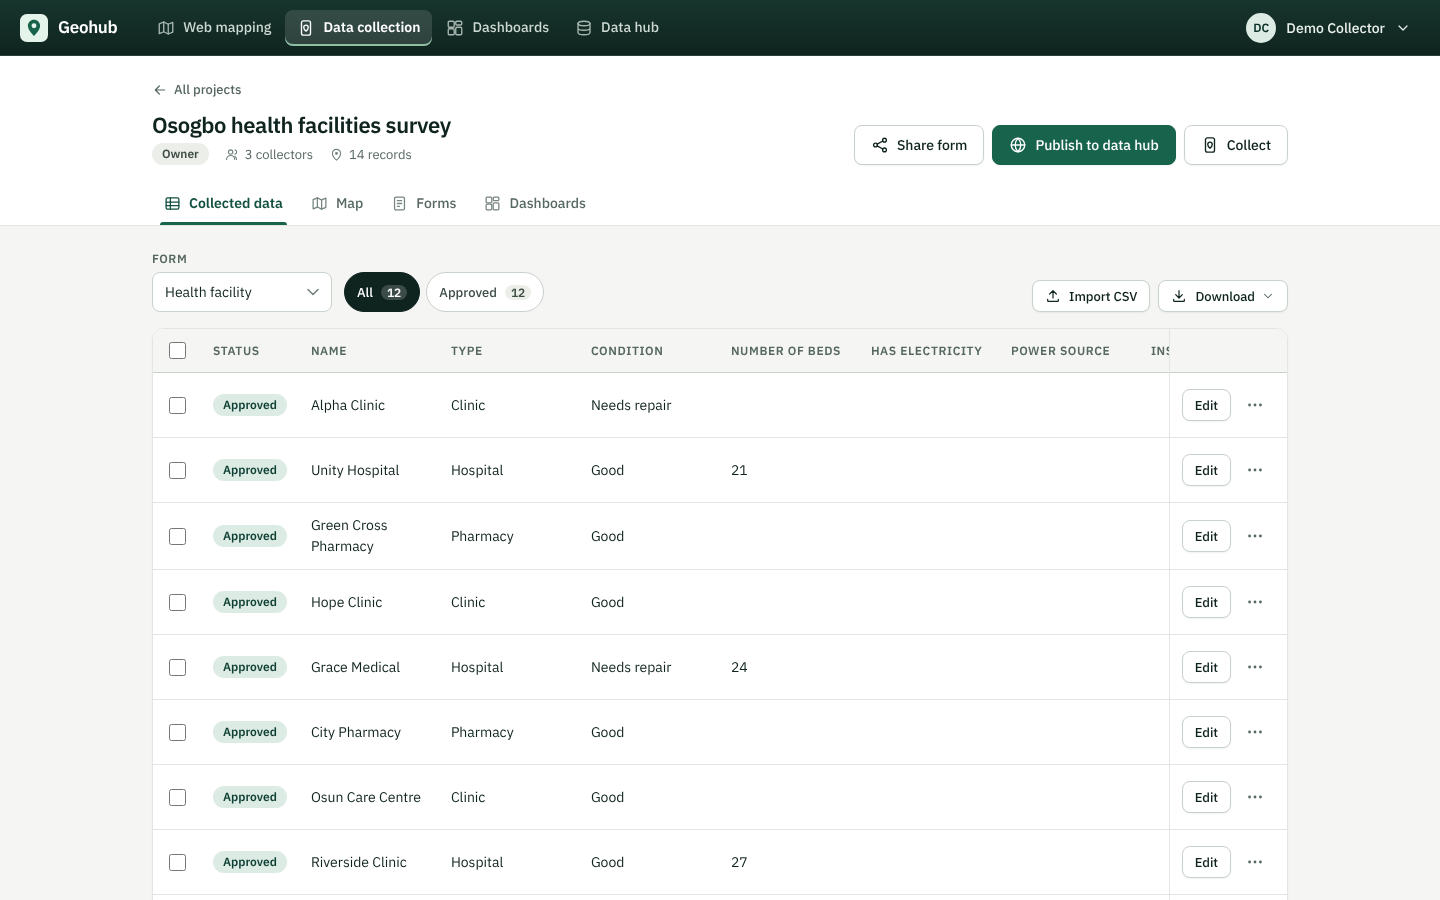
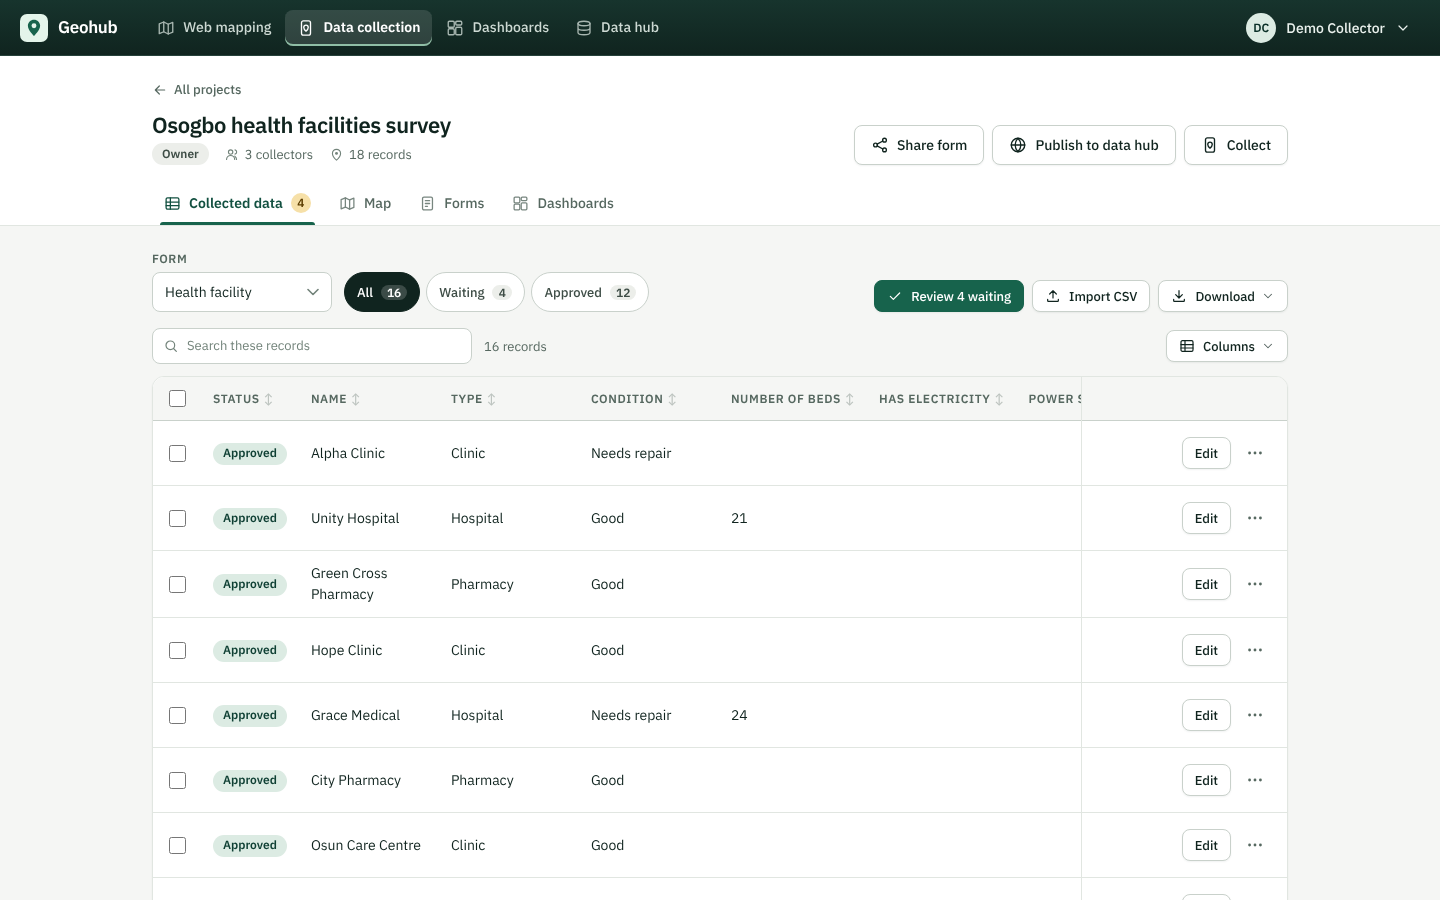
Accessibility scan, docs and reference screenshots
axe-core (WCAG 2.0/2.1 A and AA plus best practice) on 19 screens, light and dark,
desktop and phone: one finding, the grey "Not answered" text in review mode
(4.0:1 in light mode), now the standard muted colour. Rescan: zero violations.

Docs: the new patterns (review mode, records table, undo toast, home and first-run
guide, card footprints) and dark mode rules in DESIGN_SYSTEM.md; how the checks
were run in DESIGN_QA.md; refreshed and new screenshots in docs/design
(home-signed-in, review-mode, collected-data, map-editor, data-collection, and
dark versions).

Claude-Session: https://claude.ai/code/session_011DQ8bJbom6HYn8mErippbf

diff --git a/frontend/src/styles/layout.css b/frontend/src/styles/layout.css
@@ -366,7 +366,7 @@ body.is-dnd * { cursor: grabbing !important; }
 .review-answers > div:last-child { border-bottom: 0; }
 .review-answers dt { color: var(--muted); font-size: var(--fs-sm); }
 .review-answers dd { margin: 0; font-weight: 500; overflow-wrap: anywhere; font-variant-numeric: tabular-nums; }
-.review-answers dd.is-empty { color: var(--n-500); font-weight: 400; font-style: italic; }
+.review-answers dd.is-empty { color: var(--muted); font-weight: 400; font-style: italic; }
 .review-map { position: relative; min-height: 360px; overflow: hidden; border: 1px solid var(--line); border-radius: var(--r-lg); box-shadow: var(--sh-xs); }
 .review-map > .map-wrap { position: absolute; inset: 0; flex: none; min-height: 0; }
 .review-actions { position: sticky; bottom: 0; z-index: 4; display: flex; flex-wrap: wrap; align-items: center; gap: var(--s-2); padding: var(--s-3); background: var(--card); border: 1px solid var(--line); border-radius: var(--r-lg); box-shadow: var(--sh-md); }

diff --git a/docs/DESIGN_SYSTEM.md b/docs/DESIGN_SYSTEM.md
@@ -54,6 +54,12 @@ These shared pieces keep every page shaped the same way, so people learn the app
 | Selection bar (`.selection-bar`) | When table rows are ticked | Dark bar with the count and the bulk actions. It replaces per-row buttons for many records at once. |
 | Framed table (`.table-wrap`) | Collected data | Scrolls sideways inside its frame; the row actions column (`.col-sticky-end`) stays visible. Each row shows its main action, the rest go in a `MoreMenu`. |
 
+| Review mode (`ReviewPanel.tsx`) | Collected data, `?review=1` | One waiting record at a time: answers (unanswered ones marked), location, Approve / Reject / Edit with an optional note. A / R / E decide, J / K move, Escape finishes. The next waiting record opens after each decision. |
+| `RecordTable.tsx` | Collected data | Search across every answer, sort by any column (empty cells last, `aria-sort` set), choose columns (kept per form in the browser), pages of 25 to 250 rows. |
+| Undo toast (`useUndoable` in `ui.tsx`) | Deleting records and dashboards | Remove from view at once, really delete when the toast closes (time, ×, leaving the page or closing the tab). Use it instead of a confirmation for anything that can be put back; keep `useConfirm` for what cannot (deleting a map, removing a member, replacing a link). |
+| Home (`HomePage.tsx`) and `GettingStarted.tsx` | `/` when signed in | Needs your attention, then recent work. The first-run checklist ticks itself off and disappears after the first record. Visitors get the introduction, also at `/about`. |
+| `FootprintThumb.tsx` | Project, map and recent cards | The item's real points, lines and areas as a small SVG. No map library, no tiles, loads when the card is on screen. |
+
 The Dashboards app uses the same green and ink as the rest of Geohub (`--dapp` tokens in `dashboard-app.css` now point at the brand tokens).
 
 ## Adding to the app
@@ -74,3 +80,13 @@ Fields are arranged by dragging, not with move buttons.
 - Near the top or bottom of the list, dragging scrolls it.
 
 The placement rules are plain functions in `src/lib/fieldSpec.ts` (`moveTo`, `canPlace`, `insertAt`) and `src/lib/dnd.ts`, tested by `npm run test:dnd`. The interaction is `src/components/useFieldDnd.tsx`.
+
+## Dark mode
+The app follows the device setting; Appearance in the account menu sets Auto, Light or Dark (stored in the browser, applied before the first paint as `data-theme` on `<html>`).
+
+- All colours come from `tokens.css`. The dark palette redefines the same tokens, so components need no dark rules of their own.
+- Use the role tokens where light and dark need different colours: `--link`, `--primary-hover`, `--danger-strong`, `--inverse` (dark pills on the page: toasts, selection bar), `--chrome-*` (top bar and hero panels, dark in both themes).
+- Never hard-code `#fff` for a surface; use `--n-0` (or `--card`). White stays only where it is meant to: the switch knob, the signature pad, the printable report.
+- Dashboard canvases and reports keep the light palette (`.dash-app`, `.report-doc`): a dashboard looks as its author designed it.
+- Printing always uses the light palette.
+- Check every new screen in both themes; `docs/DESIGN_QA.md` has the scan.

diff --git a/docs/DESIGN_QA.md b/docs/DESIGN_QA.md
@@ -10,3 +10,9 @@ Checks run for the redesign (all from the `frontend` folder):
 
 To repeat the scan: run `npm run dev` in mock mode, open a page, and run axe-core in the browser console
 (`axe.run().then(r => console.table(r.violations))`) or with the axe browser extension.
+
+## UX improvements pass
+
+- `npm test` runs every test file (sync, digitize, forms, symbology, drag and drop, form import, CSV, dashboards, collect-only, dashboard controls, GPS, symbols, service worker and all UI tests): 988 checks.
+- axe-core 4.10 (WCAG 2.0/2.1 A and AA plus best practice) on 19 screens, in light and dark, at 1440px and 390px: zero violations. Screens: visitor home, sign in, data hub, dataset, home, about, maps, map editor, map portal, projects, collected data, review mode, map viewer, forms, form builder, share form, collector, dashboards, reports.
+- To repeat: run `npm run dev`, open a page, set the system or app theme, and run axe in the console (`axe.run().then(r => console.table(r.violations))`).
